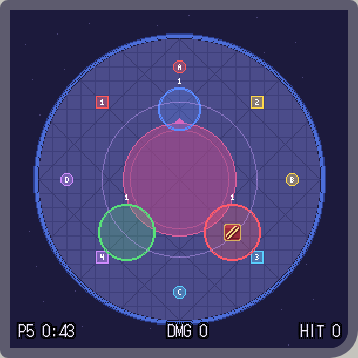
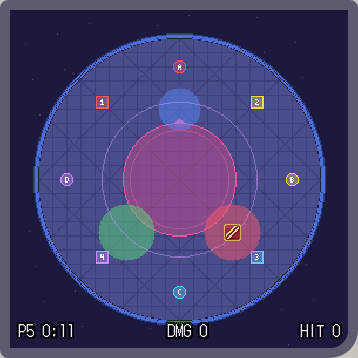
P5 run: no telegraph for Fell Forces (AA), like the real fight; only the landing flash is shown
Claude-Session: https://claude.ai/code/session_01N2ekS5gAdSpTuKApgqk7eb

diff --git a/index.html b/index.html
@@ -1429,7 +1429,7 @@ function openOmake(i){
 const RUN = (() => {
   const TARGETABLE = 33;
   const HOME = { T:{ x:0, z:-10 }, H:{ x:-7.5, z:7.5 }, D:{ x:7.5, z:7.5 } };
-  const AA_R = { T:3, H:4, D:4 }, AA_COL = { T:'#5a8aff', H:'#58e07a', D:'#ff5a6a' }, AA_WARN = 3;
+  const AA_R = { T:3, H:4, D:4 }, AA_COL = { T:'#5a8aff', H:'#58e07a', D:'#ff5a6a' };
   const REPEAT = [{ cast:34.2, hits:[39.3, 40.1, 40.8, 41.6], dmg:74358 }, { cast:118.1, hits:[123.2, 124.0, 124.7, 125.5], dmg:108000 }];
   const FELL = [
     { at:[44.2, 47.4, 50.5], dmg:[55769, 61965, 68850] },
@@ -1550,19 +1550,10 @@ const RUN = (() => {
         draw(t){
           const s = seg(t); s?.inst.draw(t - s.at);
           const blink = (Math.floor(performance.now() / 160) & 1) === 0;
-          // AA：着弾の3秒前から、A・4・3 に頭割りの輪と残り秒数
+          // AA：実機と同じく予兆なし（詠唱もマーカーも出ない）。着弾した瞬間だけ A・4・3 に頭割りの範囲を見せる
           aa.forEach(a => {
-            const dt = a.t - t;
-            if (dt > 0 && dt <= AA_WARN){
-              ['T', 'H', 'D'].forEach(k => {
-                const q = HOME[k], R = Math.round(AA_R[k] * PPY);
-                alpha(.25, () => disc(px(q.x), px(q.z), R, AA_COL[k]));
-                thickRing(px(q.x), px(q.z), R, blink ? AA_COL[k] : P.white, 2);
-                glyph(String(Math.ceil(dt)), px(q.x), px(q.z) - R - 6, P.white);
-              });
-            } else if (dt <= 0 && dt > -.5){
-              ['T', 'H', 'D'].forEach(k => { const q = HOME[k]; alpha(.6 * (1 + dt / .5), () => disc(px(q.x), px(q.z), Math.round(AA_R[k] * PPY), AA_COL[k])); });
-            }
+            const dt = t - a.t; if (dt < 0 || dt > .5) return;
+            ['T', 'H', 'D'].forEach(k => { const q = HOME[k]; alpha(.6 * (1 - dt / .5), () => disc(px(q.x), px(q.z), Math.round(AA_R[k] * PPY), AA_COL[k])); });
           });
           // 終末の渦：詠唱中は自分のまわりに散開の輪
           if (t >= ENTROPY.cast && t < ENTROPY.at) ring(px(S.player.x), px(S.player.z), Math.round(ENTROPY.r * PPY), blink ? '#ff9a3a' : P.white);
@@ -2344,12 +2335,12 @@ const INFO = {
     what:[
       '練習用の5つのギミックが、実戦と同じ時刻で順番に来る。間には<b>連続アルテマ</b>（全体4連）、<b>魔撃（AA）</b>、<b>終末の渦</b>（散開）が入る。',
       '流れ：（開幕のどきどきアルテマとターゲット不可の時間は省略）連続アルテマ → AA×3 → フラッド → オーケストラ1回目 → AA×2 → スリースターズ → 連続アルテマ → AA×2 → 混沌の終末 → 終末の渦 → オーケストラ2回目 → AA×3 → ミッシング。',
-      'AAはヘイト1位・ヒーラー1人・DPS1人への頭割り。被魔法ダメージ増加が付くので、<b>2つ受けると即死</b>。',
+      'AAはヘイト1位・ヒーラー1人・DPS1人への頭割り。被魔法ダメージ増加が付くので、<b>2つ受けると即死</b>。実機と同じく<b>予兆は出ない</b>ので、いつ来るかを覚えておく。',
     ],
     why:'ギミック単体の練習と違って、ギミックの合間に「AAの位置へ戻る」動きが要る。オーケストラ直後のAAはタンクの受け方が変わる。',
     steps:[
-      ['AAはロールごとに決まった場所で受ける：<b>タンク＝A（ボスの北）</b>、<b>ヒーラー＝4（南西）</b>、<b>DPS＝3（南東）</b>。着弾3秒前から輪と残り秒数が出る。', 'p5-1', 'AAの予兆。青＝タンク（A）、緑＝ヒーラー（4）、赤＝DPS（3）。自分（DPS）は赤の輪の中'],
-      ['フラッドの前、スリースターズの後、混沌の終末の前は、この位置で待つ（ガイドの白丸）。', null],
+      ['AAはロールごとに決まった場所で受ける：<b>タンク＝A（ボスの北）</b>、<b>ヒーラー＝4（南西）</b>、<b>DPS＝3（南東）</b>。予兆は出ず、着弾した瞬間に範囲が光るだけ。', 'p5-1', 'AAが着弾した瞬間。青＝タンク（A）、緑＝ヒーラー（4）、赤＝DPS（3）。自分（DPS）は赤の中'],
+      ['AAが来るのは、最初の連続アルテマの後に3回、オーケストラ1回目の後に2回、スリースターズ後の連続アルテマの後に2回、オーケストラ2回目の後に3回。ギミックが終わったら、すぐこの位置へ戻る（立ち位置ガイドONなら白丸が出る）。', null],
       ['オーケストラの後の1発目のAAは、スイッチしてヘイト1位になったホーリー役が、ボス前で<b>無敵を残したまま1人で</b>受ける。フレア役は入らず、2発目から戻って2人で頭割り。ヒーラー・DPSは南から自分のAAの側へ。', null],
       ['混沌の終末は6回目を避け切ってから、オーケストラの散開位置へ（終末の渦）。', null],
       ['タンクはオーケストラの間とその後のAAまで、B・X・Y が挑発／シャーク・ランパート・無敵／重いバフに変わる。それ以外は攻撃アビリティ。A はいつでも1〜3段目のコンボ（連打で順に進む）。', null],
